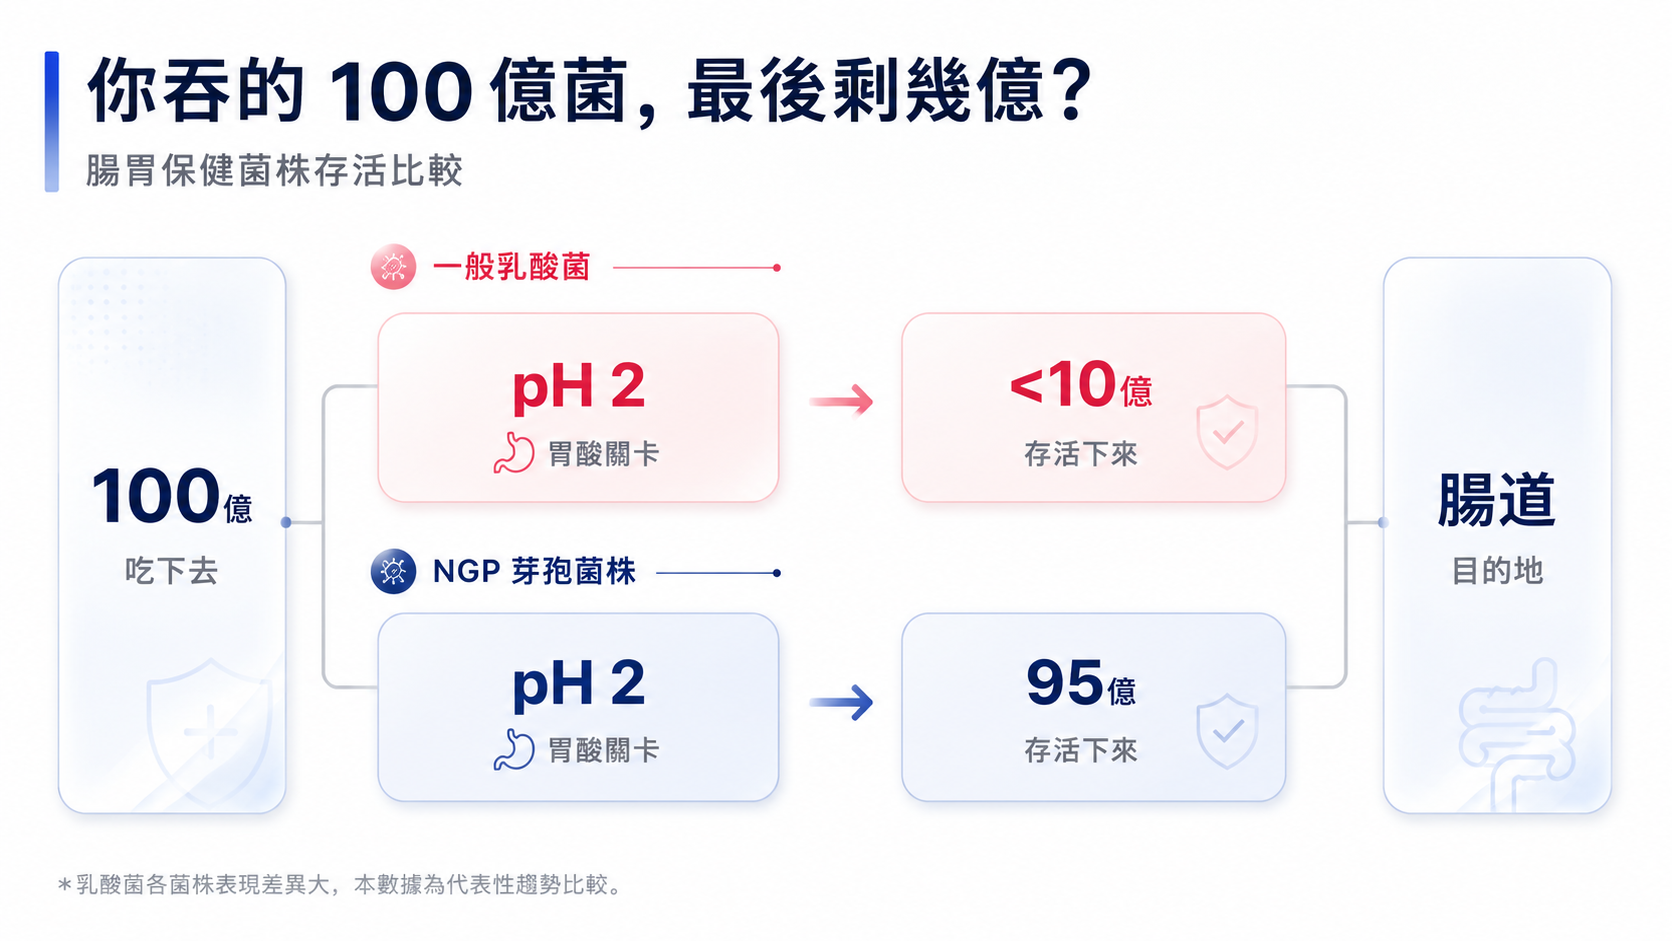
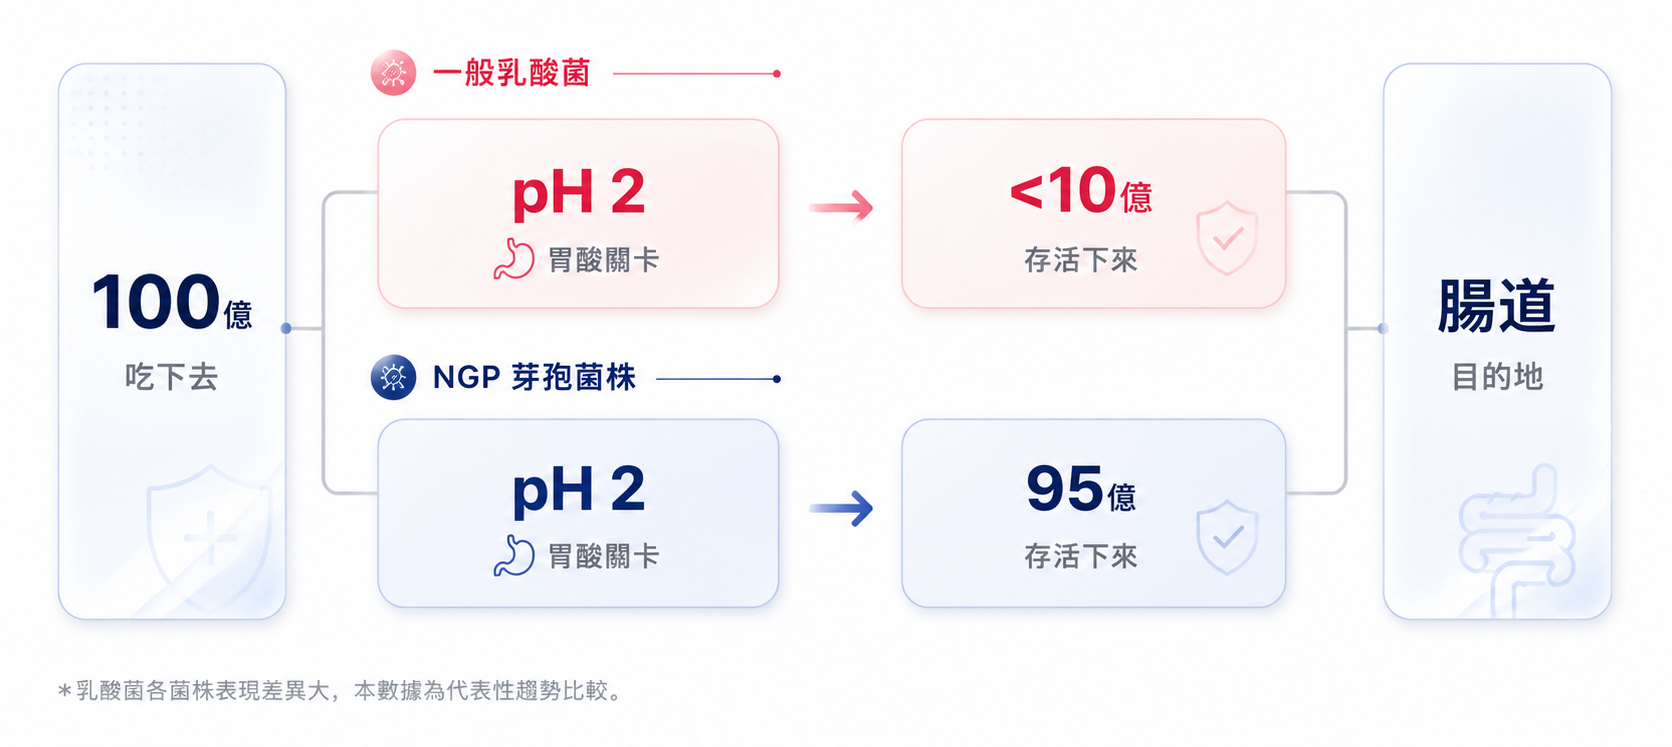
redesign problem section: stat panels + pull quote + updated infographic

diff --git a/ngp.html b/ngp.html
@@ -263,22 +263,31 @@ section { padding: 80px 0; }
 .text-link:hover { color: var(--red-dark); }
 
 /* ── PROBLEM ── */
-.problem-inner { display: grid; gap: 48px; grid-template-columns: 1fr; }
-@media (min-width: 1024px) {
-  .problem-inner { grid-template-columns: 1fr 1fr; align-items: stretch; gap: 64px; }
-  .problem-inner > div:last-child { display: flex; flex-direction: column; }
-  .problem-inner > div:last-child .chart-block { flex: 1; }
-}
+.problem-body { display: flex; flex-direction: column; gap: 32px; }
+
+.stat-panels { display: grid; grid-template-columns: 1fr 1fr; border-radius: 16px; overflow: hidden; }
+@media (max-width: 599px) { .stat-panels { grid-template-columns: 1fr; } }
+.stat-panel { position: relative; padding: 40px 32px; min-height: 260px; display: flex; flex-direction: column; justify-content: flex-end; }
+.stat-panel-bg { position: absolute; inset: 0; background-size: cover; background-position: center; }
+.stat-panel.is-red .stat-panel-bg { background-image: url(assets/doctor-bg-2.png); }
+.stat-panel.is-red::after { content:''; position:absolute; inset:0; background: linear-gradient(160deg, rgba(90,8,18,0.88) 0%, rgba(160,12,28,0.78) 100%); }
+.stat-panel.is-navy .stat-panel-bg { background-image: url(assets/ngp-petri.jpg); }
+.stat-panel.is-navy::after { content:''; position:absolute; inset:0; background: linear-gradient(160deg, rgba(5,12,40,0.90) 0%, rgba(11,30,61,0.82) 100%); }
+.stat-panel-content { position: relative; z-index: 1; }
+.stat-panel-num { font-family: var(--font-en); font-size: clamp(52px,6.5vw,80px); font-weight: 900; letter-spacing: -0.04em; line-height: 1; color: #fff; }
+.stat-panel-title { font-size: 15px; font-weight: 700; color: rgba(255,255,255,0.65); margin: 8px 0 10px; }
+.stat-panel-desc { font-size: 13px; color: rgba(255,255,255,0.45); line-height: 1.65; }
 
 .body-text { font-size: 15px; color: var(--text-2); line-height: 1.8; }
 .body-text + .body-text { margin-top: 16px; }
 .body-text strong { color: var(--text-1); font-weight: 700; }
 .callout {
-  margin-top: 24px; padding: 16px 20px;
-  border-left: 3px solid var(--red); background: var(--red-pale);
-  border-radius: 0 8px 8px 0;
-  font-size: 14px; font-weight: 600; color: var(--text-1); line-height: 1.6;
+  margin-top: 36px; padding: 0;
+  text-align: center;
+  font-size: clamp(17px,2vw,22px); font-weight: 700; color: var(--text-1); line-height: 1.65;
 }
+.callout::before { content: '\201C'; margin-right: 4px; color: var(--red); font-size: 1.3em; line-height: 0; vertical-align: -0.2em; }
+.callout::after  { content: '\201D'; margin-left:  4px; color: var(--red); font-size: 1.3em; line-height: 0; vertical-align: -0.2em; }
 
 /* Insight cards (left column) */
 .insight-cards { display: flex; flex-direction: column; gap: 14px; margin-bottom: 24px; }
@@ -835,68 +844,41 @@ section { padding: 80px 0; }
       <p class="body-text" style="max-width:620px;margin:0 auto;">保健食品等級的益生菌，從來沒有被要求「菌必須活著抵達腸道」<br>大部分廠商標榜的菌數，只是出廠時的數字。</p>
     </div>
 
-    <div class="problem-inner">
+    <div class="problem-body">
 
-      <!-- Left: insight cards -->
+      <!-- Left: stat panels + callout -->
       <div>
-        <div class="insight-cards">
-          <div class="insight-card">
-            <div class="insight-card-icon">
-              <svg width="20" height="20" viewBox="0 0 24 24" fill="none" stroke="currentColor" stroke-width="2"><path d="M10.29 3.86L1.82 18a2 2 0 001.71 3h16.94a2 2 0 001.71-3L13.71 3.86a2 2 0 00-3.42 0z"/><line x1="12" y1="9" x2="12" y2="13"/><line x1="12" y1="17" x2="12.01" y2="17"/></svg>
-            </div>
-            <div>
-              <h4>胃酸屏障：第一道死亡關卡</h4>
-              <p>人體胃酸約 pH 1.5–3.5，比市售醋酸上十倍。一般乳酸菌在此環境下存活率<strong style="color:var(--text-1);">可能低於 10%</strong>——你吞一百億，到腸道的可能連十億都不到。</p>
-            </div>
-          </div>
-          <div class="insight-card">
-            <div class="insight-card-icon">
-              <svg width="20" height="20" viewBox="0 0 24 24" fill="none" stroke="currentColor" stroke-width="2"><circle cx="12" cy="12" r="3"/><path d="M19.07 4.93A10 10 0 1 0 4.93 19.07M15 12a3 3 0 11-6 0 3 3 0 016 0z"/></svg>
-            </div>
-            <div>
-              <h4>抗生素：第二重打擊</h4>
-              <p>廣效抗生素清除感染時，不區分好菌壞菌。這對已過胃酸關卡、僅剩的少數活菌來說，是另一波消滅——剛好是最需要益生菌的時機，效果卻最差。</p>
-            </div>
-          </div>
-        </div>
+        <div class="stat-panels">
 
-        <div class="callout">這不是品牌的問題。保健食品等級的益生菌，本來就沒有被要求需要有效果。</div>
+          <!-- 一般乳酸菌 -->
+          <div class="stat-panel is-red">
+            <div class="stat-panel-bg"></div>
+            <div class="stat-panel-content">
+              <div class="stat-panel-num">&lt;10%</div>
+              <div class="stat-panel-title">一般乳酸菌</div>
+              <div class="stat-panel-desc">胃酸環境存活率<br>100 億吃下去，到腸道不到 10 億</div>
+            </div>
+          </div>
+
+          <!-- NGP 芽孢菌株 -->
+          <div class="stat-panel is-navy">
+            <div class="stat-panel-bg"></div>
+            <div class="stat-panel-content">
+              <div class="stat-panel-num">&gt;80%</div>
+              <div class="stat-panel-title">NGP 芽孢菌株</div>
+              <div class="stat-panel-desc">相同胃酸環境存活率<br>芽孢結構完整保護，順利抵達腸道</div>
+            </div>
+          </div>
+
+        </div>
+        <div class="callout" style="margin-top:28px;">這不是品牌的問題。保健食品等級的益生菌，本來就沒有被要求需要有效果。</div>
       </div>
 
-      <!-- Right: chart blocks -->
+      <!-- Right: infographic -->
       <div>
-        <div class="chart-block">
-          <div class="chart-title">胃酸環境（pH 2）存活率比較</div>
-          <div class="bar-row">
-            <div>
-              <div class="bar-label">
-                <span>NGP 芽孢型菌株</span><span>&gt;80%</span>
-              </div>
-              <div class="bar-track"><div class="bar-fill red" style="width:82%"></div></div>
-            </div>
-            <div>
-              <div class="bar-label">
-                <span>一般乳酸菌（L. acidophilus）</span><span>&lt;10%</span>
-              </div>
-              <div class="bar-track"><div class="bar-fill gray" style="width:8%"></div></div>
-            </div>
-            <div>
-              <div class="bar-label">
-                <span>市售多菌種益生菌（多數）</span><span>&lt;10%</span>
-              </div>
-              <div class="bar-track"><div class="bar-fill gray" style="width:6%"></div></div>
-            </div>
-          </div>
-          <p class="journey-note">＊乳酸菌各菌株表現差異大，本數據為代表性趨勢比較。</p>
-        </div>
-
+        <img src="assets/survival-comparison.png" alt="你吞的 100 億菌，最後剩幾億？腸胃保健菌株存活比較" style="width:100%;height:auto;display:block;border-radius:12px;">
       </div>
 
-    </div>
-
-    <!-- Survival comparison infographic -->
-    <div style="margin-top:36px;">
-      <img src="assets/survival-comparison.png" alt="你吞的 100 億菌，最後剩幾億？腸胃保健菌株存活比較" style="width:100%;height:auto;display:block;border-radius:12px;">
     </div>
 
   </div>
